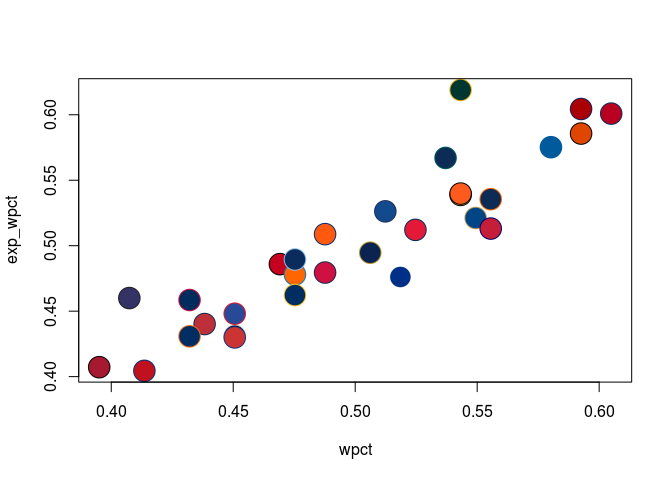
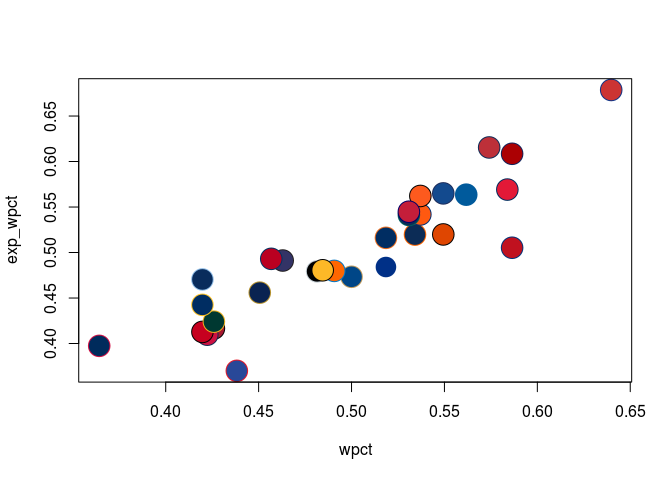
updated plot in README

diff --git a/README.md b/README.md
@@ -35,7 +35,7 @@ Plot
 library(Lahman)
 library(tidyverse)
 pythag <- Teams %>%
-  filter(yearID == 2014) %>%
+  filter(yearID == 2016) %>%
   select(name, W, L, R, RA) %>%
   mutate(wpct = W / (W + L), exp_wpct = 1 / (1 + (RA/R)^2)) %>%
   left_join(teamcolors, by = "name")
@@ -46,12 +46,14 @@ with(pythag, plot(wpct, exp_wpct, bg = primary, col = secondary, pch = 21, cex =
 
 ``` r
 ggplot(pythag, aes(x = wpct, y = exp_wpct, color = name, fill = name)) + 
+  geom_abline(slope = 1, intercept = 0, linetype = 3) + 
   geom_point(shape = 21, size = 3) + 
   scale_fill_manual(values = pythag$primary, guide = FALSE) + 
   scale_color_manual(values = pythag$secondary, guide = FALSE) + 
   ggrepel::geom_text_repel(aes(label = substr(name, 1, 3))) + 
-  scale_x_continuous("Winning Percentage") + 
-  scale_y_continuous("Expected Winning Percentage")
+  scale_x_continuous("Winning Percentage", limits = c(0.3, 0.7)) + 
+  scale_y_continuous("Expected Winning Percentage", limits = c(0.3, 0.7)) + 
+  coord_equal()
 ```
 
 ![](README_files/figure-markdown_github-ascii_identifiers/ggplot-1.png)
